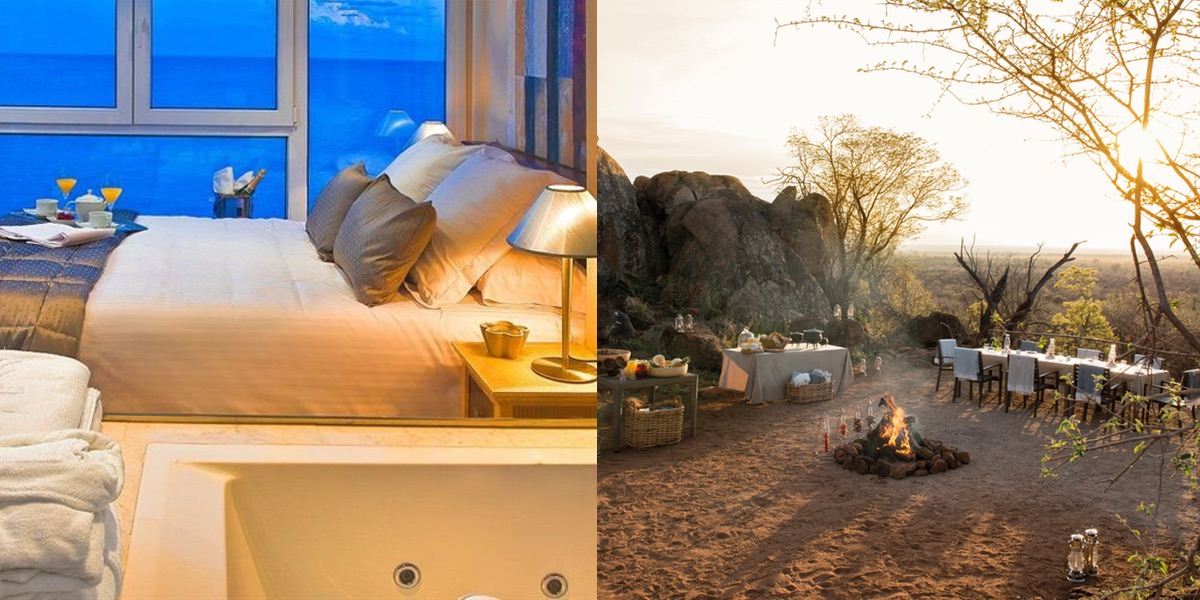
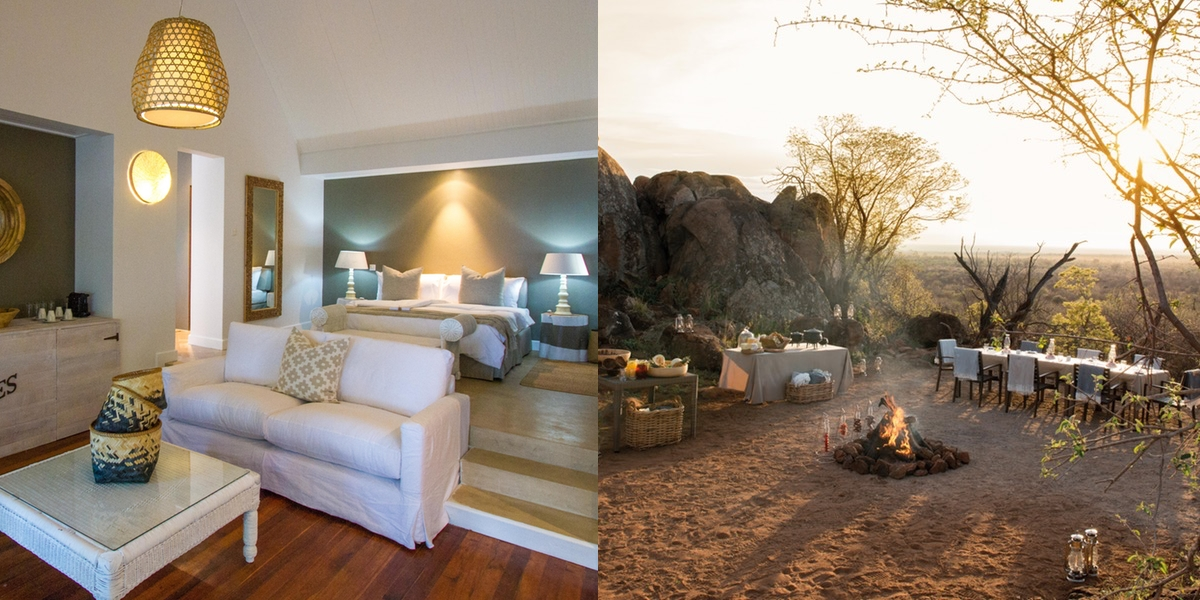
Add new home images

diff --git a/www/content/index.html b/www/content/index.html
@@ -6,11 +6,11 @@ title: Home
     <div class="hero_slide slide_1">
         <div class="testimonial">
             <blockquote>
-                “Professional PR at its very best.”
-                <cite>Frank Barrett, Travel Editor – Mail on Sunday</cite>
+                “Efficient, energetic, polite and professional, Storrington is all you need in a PR agency. They know their clients as well as they know the needs of the media.”
+                <cite>Jo Foley, Spa Guru</cite>
             </blockquote>
             <div class="hero_information">
-                Residence on the Rocks, Seychelles
+                Frangipani Spa, Breezes Resort, Zanzibar
             </div>
         </div>
     </div>
@@ -21,7 +21,7 @@ title: Home
                 <cite>Paul Henderson, Health, Sport, Food, Motoring Editor – GQ Magazine</cite>
             </blockquote>
             <div class="hero_information">
-                Dolphin Bay Resort and Spa, California
+                Beach Bungalow, Alphonse Island, Seychelles
             </div>
         </div>
     </div>
@@ -42,6 +42,9 @@ title: Home
                 “Extremely hard working, reliable... gives 1000% on every occasion.”
                 <cite>Irene Mateides, Director – FMS Publishing</cite>
             </blockquote>
+            <div class="hero_information">
+                Cocktails on the Beach, The Palms, Zanzibar
+            </div>
         </div>
     </div>
     <div class="hero_slide slide_5">
@@ -50,6 +53,9 @@ title: Home
                 “Professional PR at its very best.”
                 <cite>Frank Barrett, Travel Editor – Mail on Sunday</cite>
             </blockquote>
+            <div class="hero_information">
+                Dolphin Bay Resort & Spa, California
+            </div>
         </div>
     </div>
     <div class="hero_slide slide_6">
@@ -58,22 +64,42 @@ title: Home
                 “Utterly professional, 100% reliable, and an unrivalled brand awareness.”
                 <cite>Paul Henderson, Health, Sport, Food, Motoring Editor – GQ Magazine</cite>
             </blockquote>
+            <div class="hero_information">
+                Eden Bleu Hotel, Seychelles
+            </div>
         </div>
     </div>
     <div class="hero_slide slide_7">
         <div class="testimonial">
             <blockquote>
-                “Storrington PR is the Rolls Royce of the PR world."
-                <cite>Award-Winning Actress, Nina Wadia</cite>
+                “Efficient, energetic, polite and professional, Storrington is all you need in a PR agency. They know their clients as well as they know the needs of the media.”
+                <cite>Jo Foley, Spa Guru</cite>
             </blockquote>
+            <div class="hero_information">
+                Flats Lunch, Alphonse Island, Seychelles
+            </div>
         </div>
     </div>
     <div class="hero_slide slide_8">
         <div class="testimonial">
             <blockquote>
+                “Storrington PR is the Rolls Royce of the PR world."
+                <cite>Award-Winning Actress, Nina Wadia</cite>
+            </blockquote>
+            <div class="hero_information">
+                Pool at Baraza Resort & Spa, Zanzibar
+            </div>
+        </div>
+    </div>
+    <div class="hero_slide slide_9">
+        <div class="testimonial">
+            <blockquote>
                 “Extremely hard working, reliable... gives 1000% on every occasion.”
                 <cite>Irene Mateides, Director – FMS Publishing</cite>
             </blockquote>
+            <div class="hero_information">
+                Sunbeds on the Beach, Zawadi Hotel, Zanzibar
+            </div>
         </div>
     </div>
 </section>

diff --git a/www/content/testimonials.html b/www/content/testimonials.html
@@ -84,6 +84,16 @@ title: Testimonials
         </div>
     </div>
 
+    <div class="media_testimonial media_fms">
+        <div class="testimonial_inner">
+            <img src="/images/media-logos/fms_publishing.jpg"/>
+            <blockquote>
+                <p>"I have known Li Boatwright for approximately 12 years and fully supported her when she founded her company, Storrington PR, seven years ago. We have worked on numerous promotions for her clients in Bentley and also in Sunseeker magazine. Li has proved herself extremely hard working, reliable and totally committed to her clients beyond the call of duty giving 1000% on every occasion. I would not hesitate in recommending her to anyone considering a wise investment in PR."</p>
+                <cite>Irene Mateides, Director – FMS Publishing (Publishers of Aston Martin, Bentley, Sunseeker and Ritz Magazines)</cite>
+            </blockquote>
+        </div>
+    </div>
+
     <div class="media_testimonial media_good_housekeeping">
         <div class="testimonial_inner">
             <blockquote>
@@ -94,13 +104,13 @@ title: Testimonials
         </div>
     </div>
 
-    <div class="media_testimonial media_fms">
+    <div class="media_testimonial media_jo_foley">
         <div class="testimonial_inner">
-            <img src="/images/media-logos/fms_publishing.jpg"/>
             <blockquote>
-                <p>"I have known Li Boatwright for approximately 12 years and fully supported her when she founded her company, Storrington PR, seven years ago. We have worked on numerous promotions for her clients in Bentley and also in Sunseeker magazine. Li has proved herself extremely hard working, reliable and totally committed to her clients beyond the call of duty giving 1000% on every occasion. I would not hesitate in recommending her to anyone considering a wise investment in PR."</p>
-                <cite>Irene Mateides, Director – FMS Publishing (Publishers of Aston Martin, Bentley, Sunseeker and Ritz Magazines)</cite>
+                <p> "Efficient, energetic, polite and professional, Storrington is all you need in a PR agency. They know their clients as well as they know the needs of the media."</p>
+                <cite>Jo Foley, Spa Guru</cite>
             </blockquote>
+            <img src="/images/media-logos/jo-foley.png"/>
         </div>
     </div>
 

diff --git a/www/scss/storrington/home/_hero_images.scss b/www/scss/storrington/home/_hero_images.scss
@@ -102,36 +102,40 @@
     }
 
     &.slide_1 {
-      background-image: url(/images/home_heros/residence_pool.jpg);
-      @include animation(slide 80s linear 0.5s infinite);
+      background-image: url(/images/home_heros/frangipani_spa.jpg);
+      @include animation(slide 90s linear 0.5s infinite);
     }
     &.slide_2 {
-      background-image: url(/images/home_heros/dolphin_bay.jpg);
-      @include animation(slide 80s linear 10s infinite);
+      background-image: url(/images/home_heros/alphonse_island.jpg);
+      @include animation(slide 90s linear 10s infinite);
     }
     &.slide_3 {
       background-image: url(/images/home_heros/breezes_beach_club_spa_zanzibar.jpg);
-      @include animation(slide 80s linear 20s infinite);
+      @include animation(slide 90s linear 20s infinite);
     }
     &.slide_4 {
-      background-image: url(/images/home_heros/royal_evian.jpg);
-      @include animation(slide 80s linear 30s infinite);
+      background-image: url(/images/home_heros/the_palms_zanzibar.jpg);
+      @include animation(slide 90s linear 30s infinite);
     }
     &.slide_5 {
-      background-image: url(/images/home_heros/singular_room_view.jpg);
-      @include animation(slide 80s linear 40s infinite);
+      background-image: url(/images/home_heros/dolphin_bay.jpg);
+      @include animation(slide 90s linear 40s infinite);
     }
     &.slide_6 {
-      background-image: url(/images/home_heros/beach_dinner.jpg);
-      @include animation(slide 80s linear 50s infinite);
+      background-image: url(/images/home_heros/eden_bleu.jpg);
+      @include animation(slide 90s linear 50s infinite);
     }
     &.slide_7 {
-      background-image: url(/images/home_heros/rooftop_bar.jpg);
-      @include animation(slide 80s linear 60s infinite);
+      background-image: url(/images/home_heros/flats_lunch_alphonse.jpg);
+      @include animation(slide 90s linear 60s infinite);
     }
     &.slide_8 {
-      background-image: url(/images/home_heros/singular_spa.jpg);
-      @include animation(slide 80s linear 70s infinite);
+      background-image: url(/images/home_heros/baraza_resort.jpg);
+      @include animation(slide 90s linear 70s infinite);
+    }
+    &.slide_9 {
+      background-image: url(/images/home_heros/zawadi_hotel.jpg);
+      @include animation(slide 90s linear 80s infinite);
     }
   }
 }

diff --git a/www/content/clients.html b/www/content/clients.html
@@ -7,21 +7,13 @@ title: Clients
 <section class="clients_container">
     <a href="http://thedolphinbay.com/"><img src="/images/client-logos/dolphin-bay.png"/></a>
     <a href="http://www.edenbleu.com/"><img src="/images/client-logos/eden-bleu.jpg"/></a>
-    <a href="http://www.evianresort.com/uk/spa-evian-source-luxe-lac-leman.php"><img src="/images/client-logos/evian-source.jpg"/></a>
     <a href="http://thezanzibarcollection.com/"><img src="/images/client-logos/zanzibar.png"/></a>
     <a href="http://baraza-zanzibar.com/"><img src="/images/client-logos/baraza-zanzibar.png"/></a>
     <a href="http://www.breezes-zanzibar.com/"><img src="/images/client-logos/breezes-zanzibar.png"/></a>
     <a href="http://palms-zanzibar.com/"><img src="/images/client-logos/palms-zanzibar.png"/></a>
     <a href="http://www.zawadihotel.com/"><img src="/images/client-logos/zawadi-zanzibar.png"/></a>
     <a href="http://www.alphonse-island.com/"><img src="/images/client-logos/alphonse-island.jpg"/></a>
-    <a href="http://www.arbataxpark.com/"><img src="/images/client-logos/arbatax-park.jpg"/></a>
-    <a href="http://www.arbataxpark.com/"><img src="/images/client-logos/bellavista.jpg"/></a>
     <a href="http://www.thesingular.com/patagonia/puertonatales/default-en.html"><img src="/images/client-logos/singular-patagonia.png"/></a>
     <a href="http://www.thesingular.com/santiago/lastarria/default-en.html"><img src="/images/client-logos/singular-santiago.jpg"/></a>
     <a href="http://www.residenceontherocks.com/"><img src="/images/client-logos/residence-on-the-rocks.png"/></a>
-    <a href="http://www.evianresort.com/uk/hotels-ermitage.php"><img src="/images/client-logos/ermitage.jpg"/></a>
-    <a href="http://www.evianresort.com/uk/spa-quatre-terres-evian-alpes.php"><img src="/images/client-logos/quatre-terres.jpg"/></a>
-    <a href="http://www.evianresort.com/uk/evian-resort-golf-club.php"><img src="/images/client-logos/evian-golf-club.gif"/></a>
-    <a href="http://www.lesthermesevian.com"><img src="/images/client-logos/evian-les-thermes.jpg"/></a>
-    <a href="http://www.palace-hotel-royal.com/en/"><img src="/images/client-logos/hotel-royal.jpg"/></a>
 </section>

diff --git a/www/scss/storrington/_testimonials.scss b/www/scss/storrington/_testimonials.scss
@@ -142,6 +142,10 @@
     color: white;
   }
 
+  &.media_jo_foley {
+    background-color: #b4c2c3;
+  }
+
   &.media_nina {
     background-color: #d8c8b3;
     color: white;
